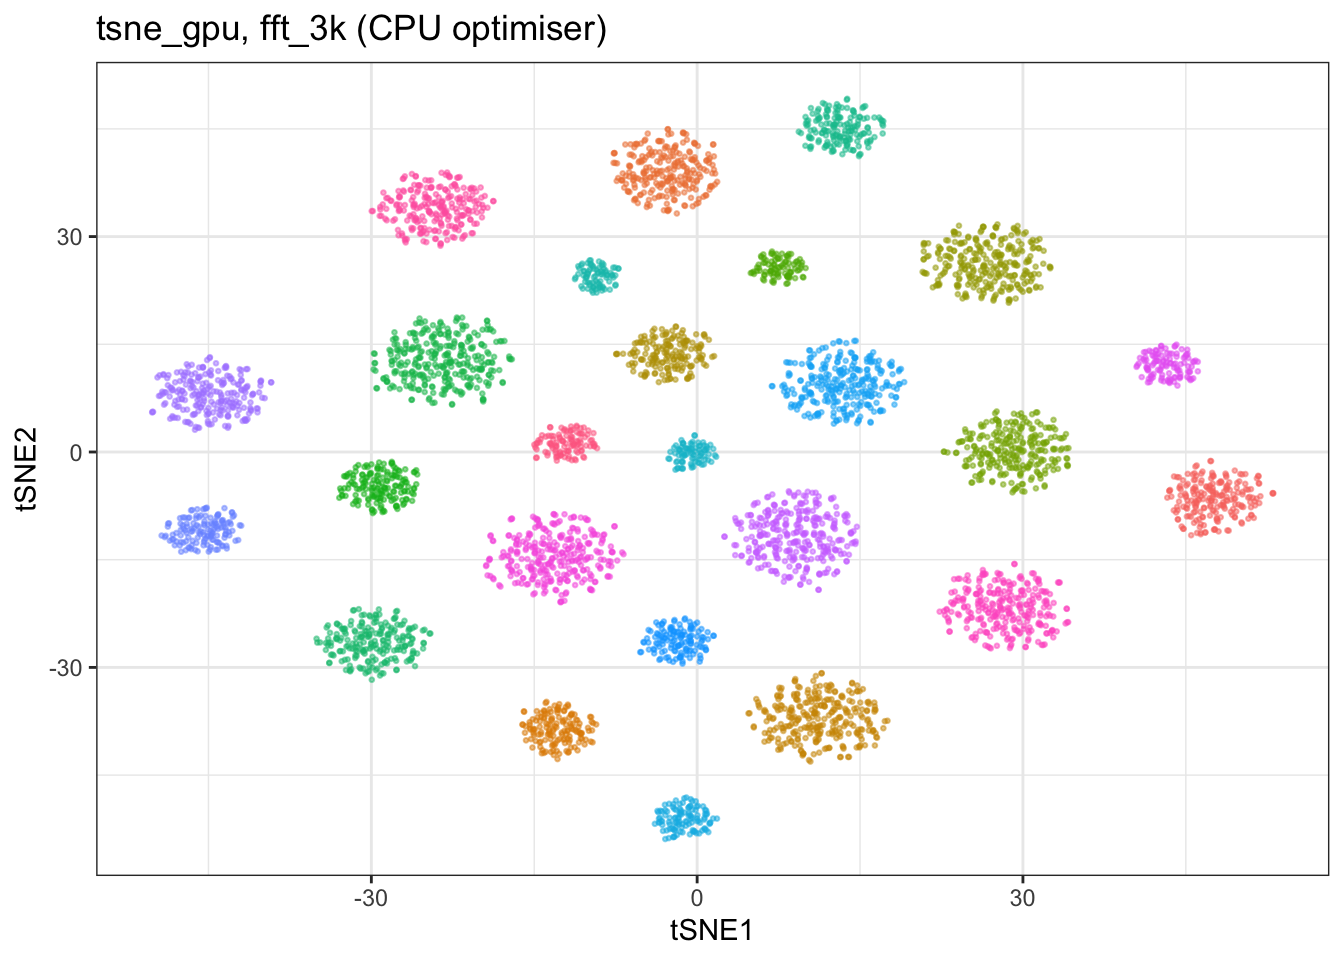
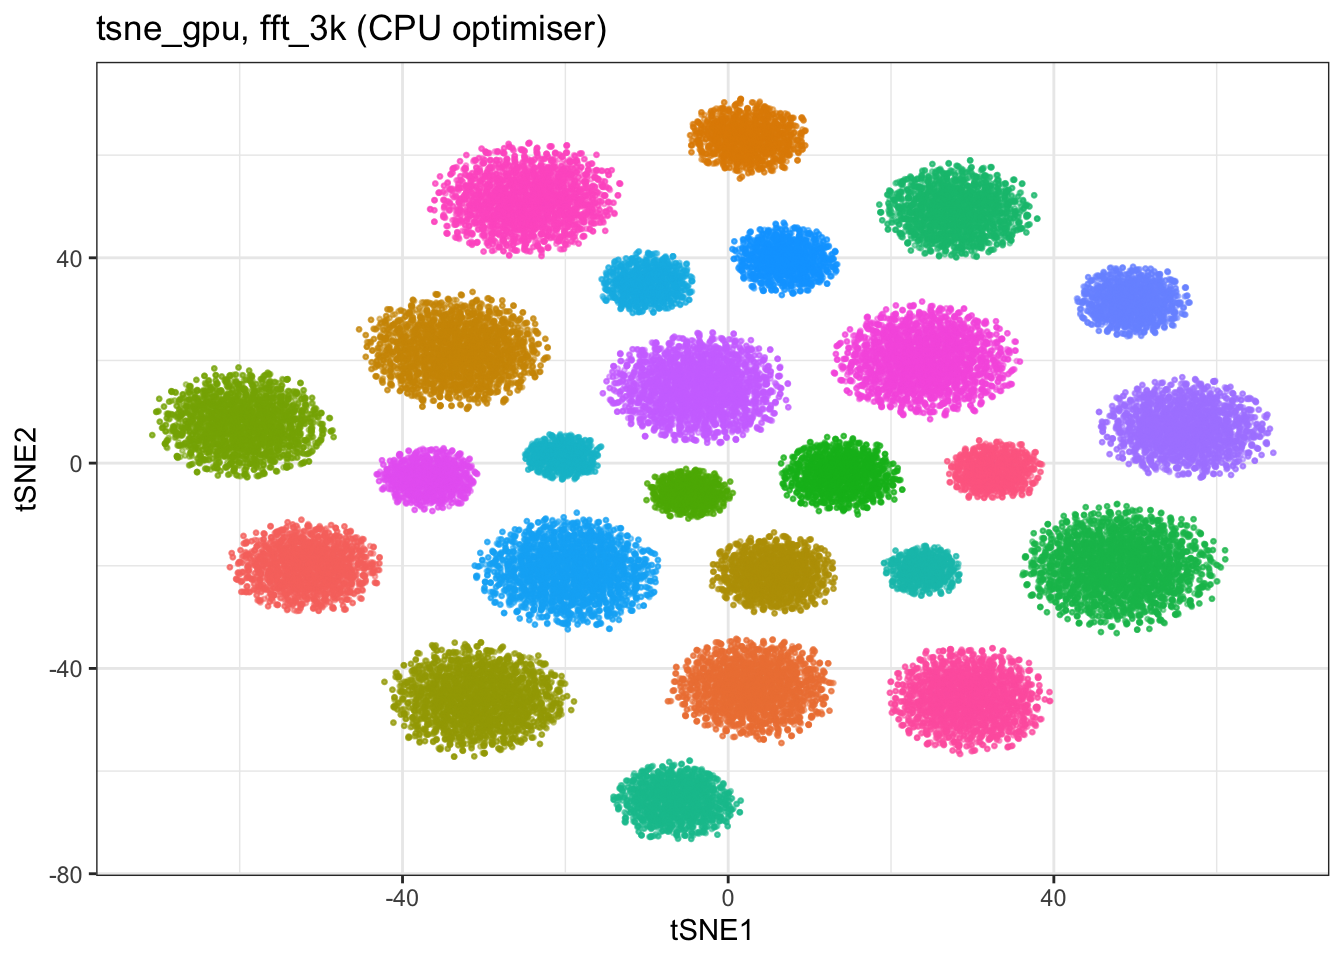
feat: gpu-accelerated tsne wired in and cargo.lock udpated

diff --git a/NEWS.md b/NEWS.md
@@ -1,3 +1,10 @@
+# bixverse.gpu 0.3.4
+
+## Feature
+
+* GPU-accelerated FFT 3-kernel optimisation for tSNE wired in and the CPU 
+  version of the same optimiser.
+ 
 # bixverse.gpu 0.3.3
 
 ## Feature
